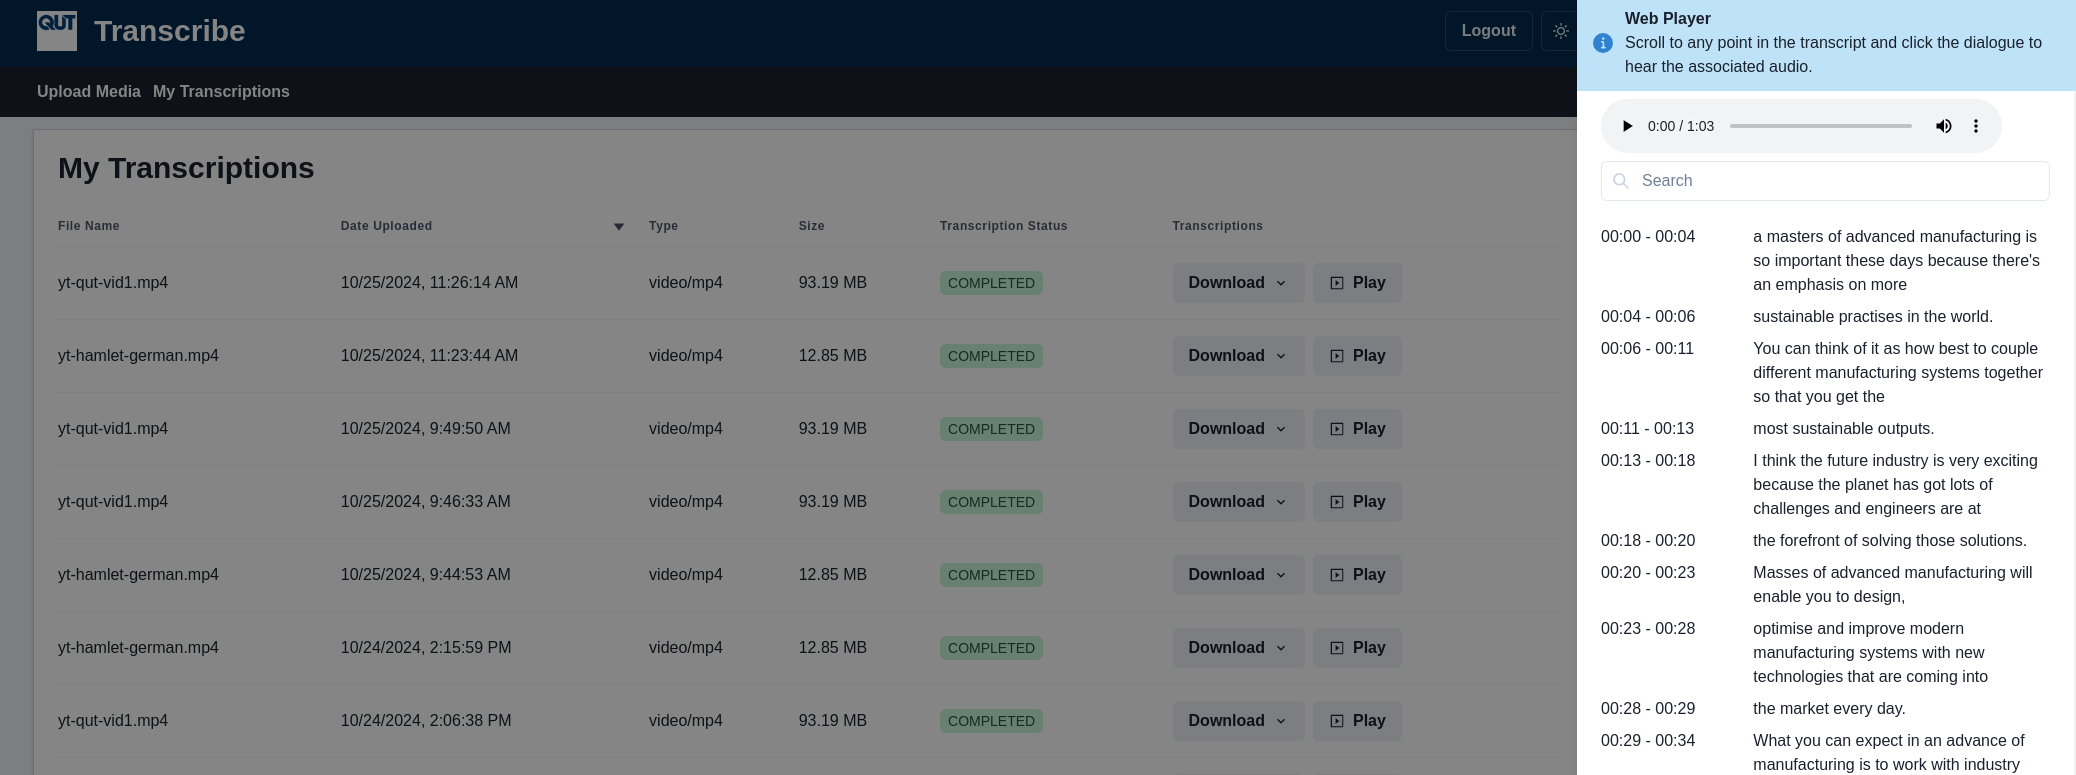
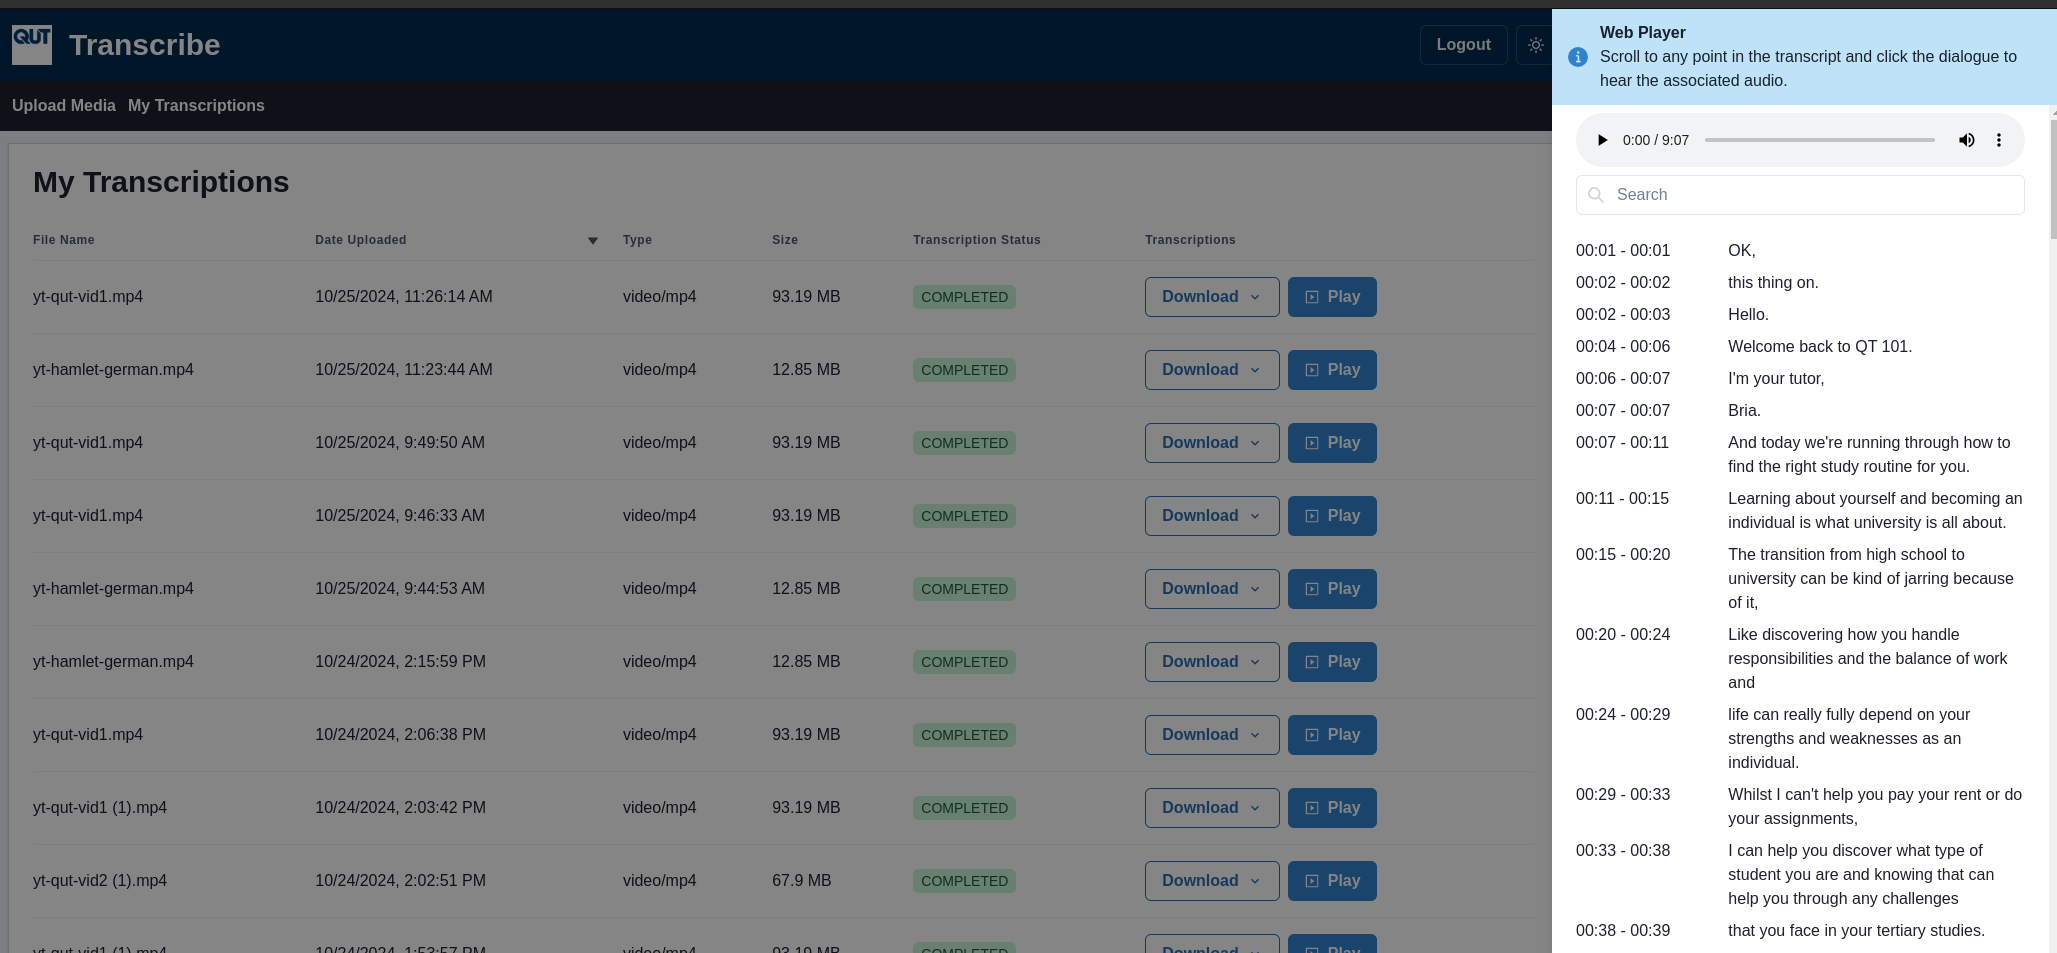
Update button colours Update images for readme

diff --git a/frontend/components/download/download.tsx b/frontend/components/download/download.tsx
@@ -5,8 +5,10 @@ import {
   HStack,
   Menu,
   MenuButton,
+  MenuGroup,
   MenuItem,
   MenuList,
+  MenuOptionGroup,
   Portal,
 } from "@chakra-ui/react";
 import { ChevronDownIcon } from "@chakra-ui/icons";
@@ -67,24 +69,31 @@ export const Download: FunctionComponent<DownloadOptionsProps> = ({
   return (
     <HStack>
       <Menu>
-        <MenuButton as={Button} rightIcon={<ChevronDownIcon />}>
+        <MenuButton
+          variant={"outline"}
+          colorScheme={"blue"}
+          as={Button}
+          rightIcon={<ChevronDownIcon />}
+        >
           Download
         </MenuButton>
         <Portal>
           <MenuList>
-            <MenuItem
-              icon={<MdMovie />}
-              onClick={() =>
-                downloadFile({
-                  objectKey: mediaKey(transcription),
-                  filename: transcription.metadata.filename,
-                })
-              }
-            >
-              Media
-            </MenuItem>
+            <MenuGroup>
+              <MenuItem
+                icon={<MdMovie />}
+                onClick={() =>
+                  downloadFile({
+                    objectKey: mediaKey(transcription),
+                    filename: transcription.metadata.filename,
+                  })
+                }
+              >
+                Media file
+              </MenuItem>
+            </MenuGroup>
             {transcription.downloadKey && (
-              <>
+              <MenuGroup title={"Transcription formats"}>
                 <MenuItem
                   icon={<VscJson />}
                   onClick={() =>
@@ -126,7 +135,7 @@ export const Download: FunctionComponent<DownloadOptionsProps> = ({
                 >
                   DOCX
                 </MenuItem>
-              </>
+              </MenuGroup>
             )}
           </MenuList>
         </Portal>
@@ -136,6 +145,7 @@ export const Download: FunctionComponent<DownloadOptionsProps> = ({
           onClick={() => loadPlayer()}
           variant={"solid"}
           leftIcon={<AiOutlinePlaySquare />}
+          colorScheme={"blue"}
         >
           Play
         </Button>

diff --git a/frontend/components/dataTable.tsx b/frontend/components/dataTable.tsx
@@ -1,4 +1,5 @@
 import {
+  ButtonProps,
   chakra,
   Flex,
   IconButton,
@@ -100,6 +101,11 @@ export const DataTable = (props: DataTableProps) => {
     debugTable: false,
   });
 
+  const paginateButtonsProps: ButtonProps = {
+    colorScheme: "blue",
+    variant: "outline",
+  };
+
   return (
     <>
       <Table {...tableProps}>
@@ -183,6 +189,7 @@ export const DataTable = (props: DataTableProps) => {
                   isDisabled={!table.getCanPreviousPage()}
                   icon={<ArrowLeftIcon h={3} w={3} />}
                   mr={2}
+                  {...paginateButtonsProps}
                 />
               </Tooltip>
               <Tooltip label="Previous Page">
@@ -192,6 +199,7 @@ export const DataTable = (props: DataTableProps) => {
                   onClick={() => table.previousPage()}
                   isDisabled={!table.getCanPreviousPage()}
                   icon={<ChevronLeftIcon h={6} w={6} />}
+                  {...paginateButtonsProps}
                 />
               </Tooltip>
             </Flex>
@@ -251,6 +259,7 @@ export const DataTable = (props: DataTableProps) => {
                   onClick={() => table.nextPage()}
                   disabled={!table.getCanNextPage()}
                   icon={<ChevronRightIcon h={6} w={6} />}
+                  {...paginateButtonsProps}
                 />
               </Tooltip>
               <Tooltip label="Last Page">
@@ -261,6 +270,7 @@ export const DataTable = (props: DataTableProps) => {
                   disabled={!table.getCanNextPage()}
                   icon={<ArrowRightIcon h={3} w={3} />}
                   ml={2}
+                  {...paginateButtonsProps}
                 />
               </Tooltip>
             </Flex>
